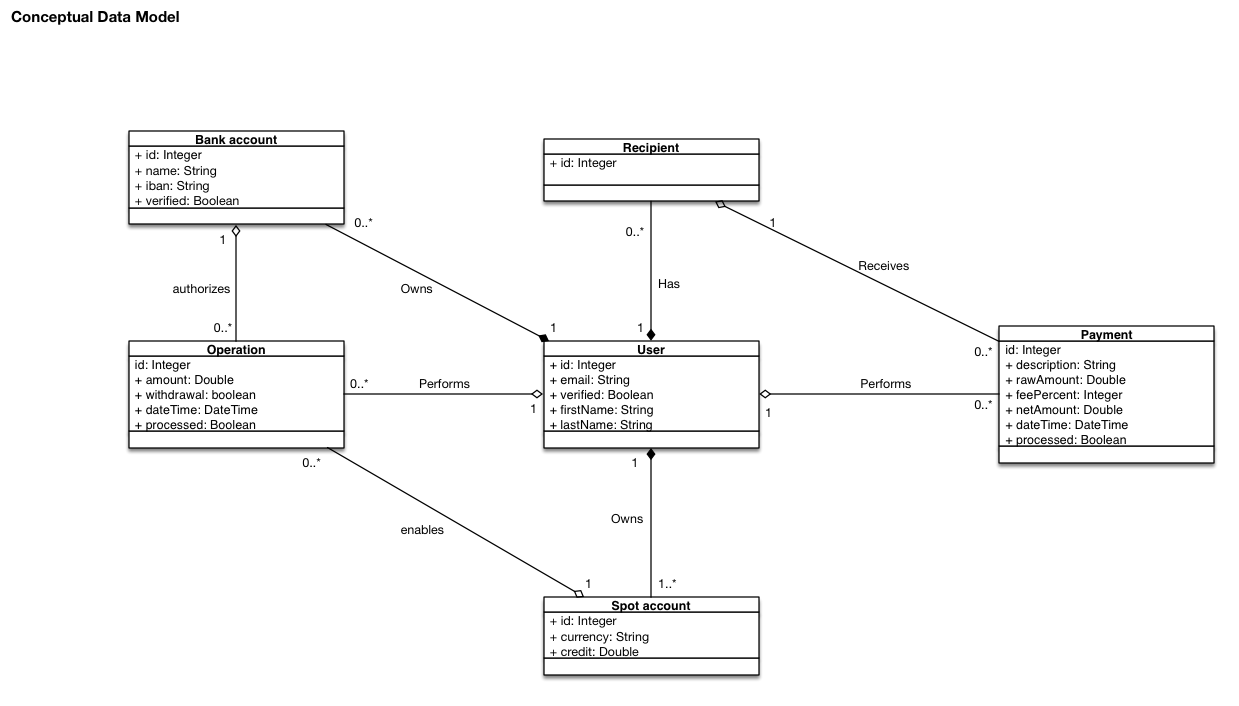
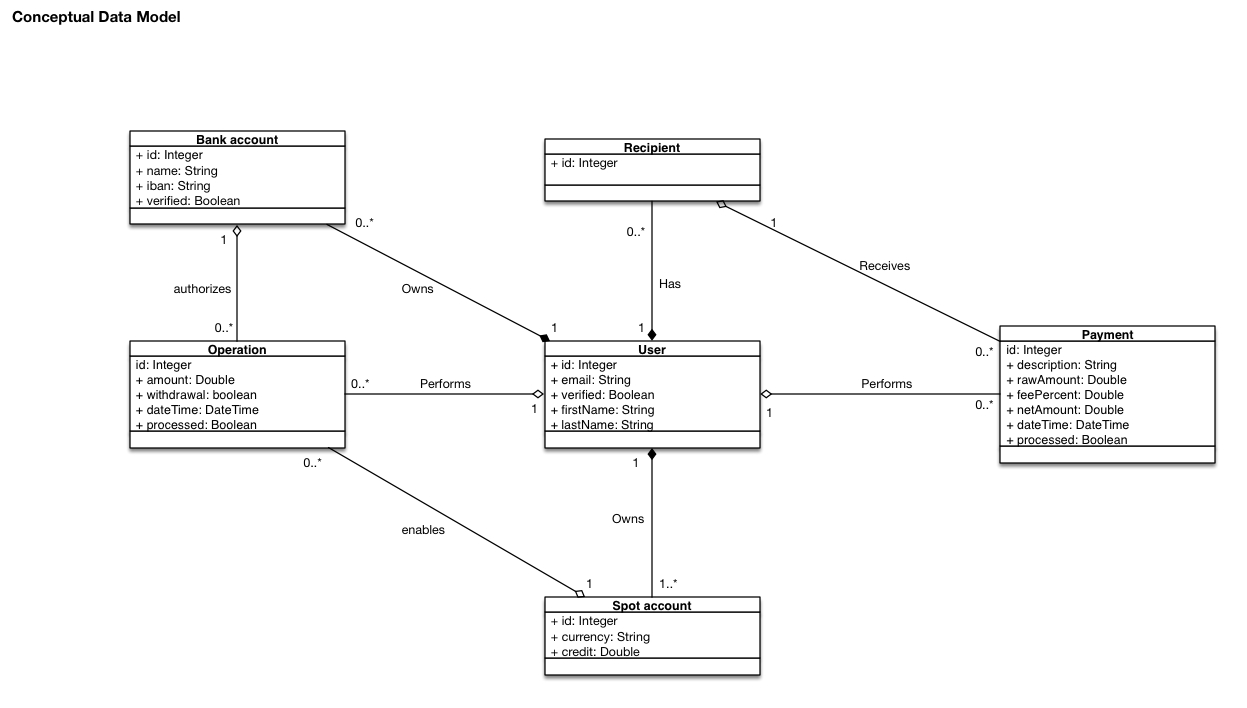
Minor fixes.

diff --git a/src/main/java/com/paymybuddy/pmb/service/PaymentService.java b/src/main/java/com/paymybuddy/pmb/service/PaymentService.java
@@ -21,7 +21,7 @@ import static java.lang.Math.round;
 @Service
 public class PaymentService implements IPaymentService {
 
-    private static final int FEE_PERCENT = 3;
+    private static final double FEE_PERCENT = 0.5;
 
     private final PaymentRepository paymentRepository;
     private final IPmbUserService pmbUserService;

diff --git a/src/main/java/com/paymybuddy/pmb/model/Payment.java b/src/main/java/com/paymybuddy/pmb/model/Payment.java
@@ -42,7 +42,7 @@ public class Payment {
     @Column(name = "FEE_PERCENT")
     @Getter
     @Setter
-    private int feePercent;
+    private double feePercent;
 
     @Column(name = "CURRENCY")
     @Getter

diff --git a/README.md b/README.md
@@ -56,7 +56,7 @@ PAYMENT {
     DESCRIPTION VARCHAR[50]
     GROSS_AMOUNT FLOAT
     NET_AMOUNT FLOAT
-    FEE_PERCENT INT
+    FEE_PERCENT FLOAT
     CURRENCY VARCHAR[3]
     DATE_TIME DATETIME
     PROCESSED BOOLEAN
